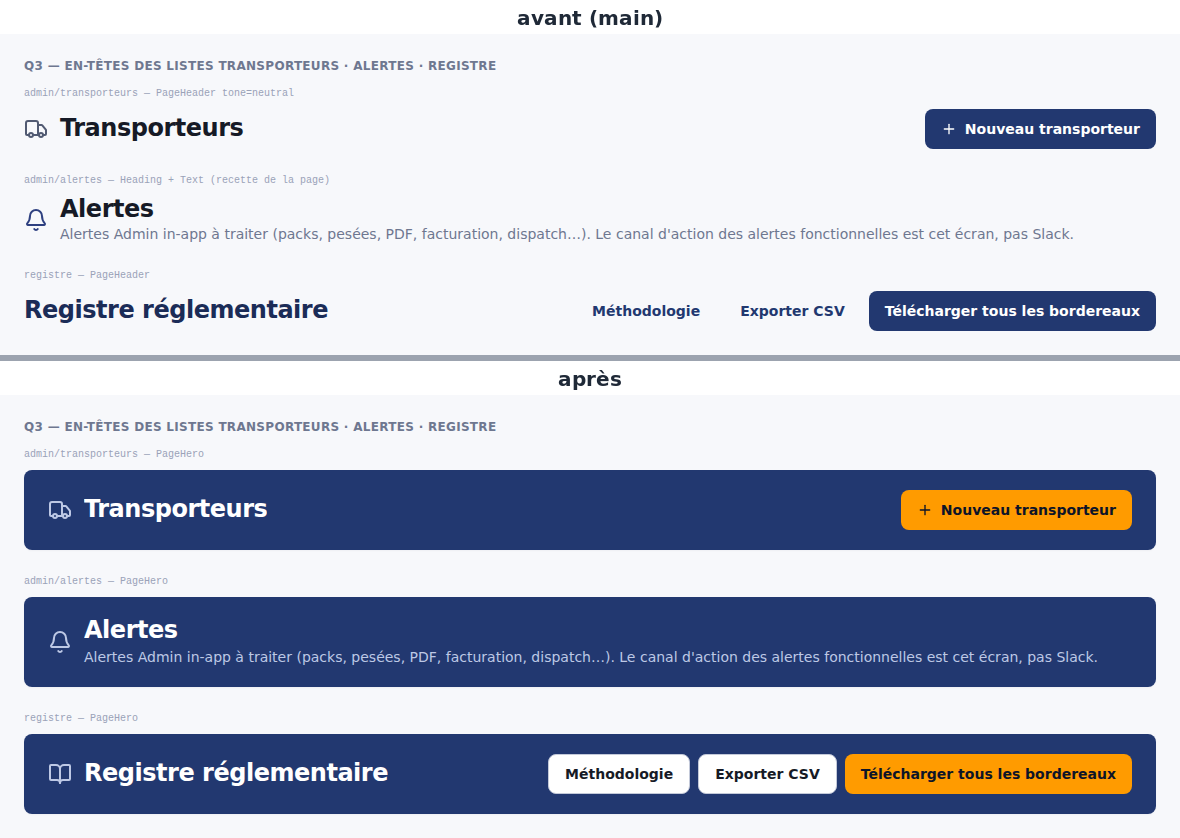
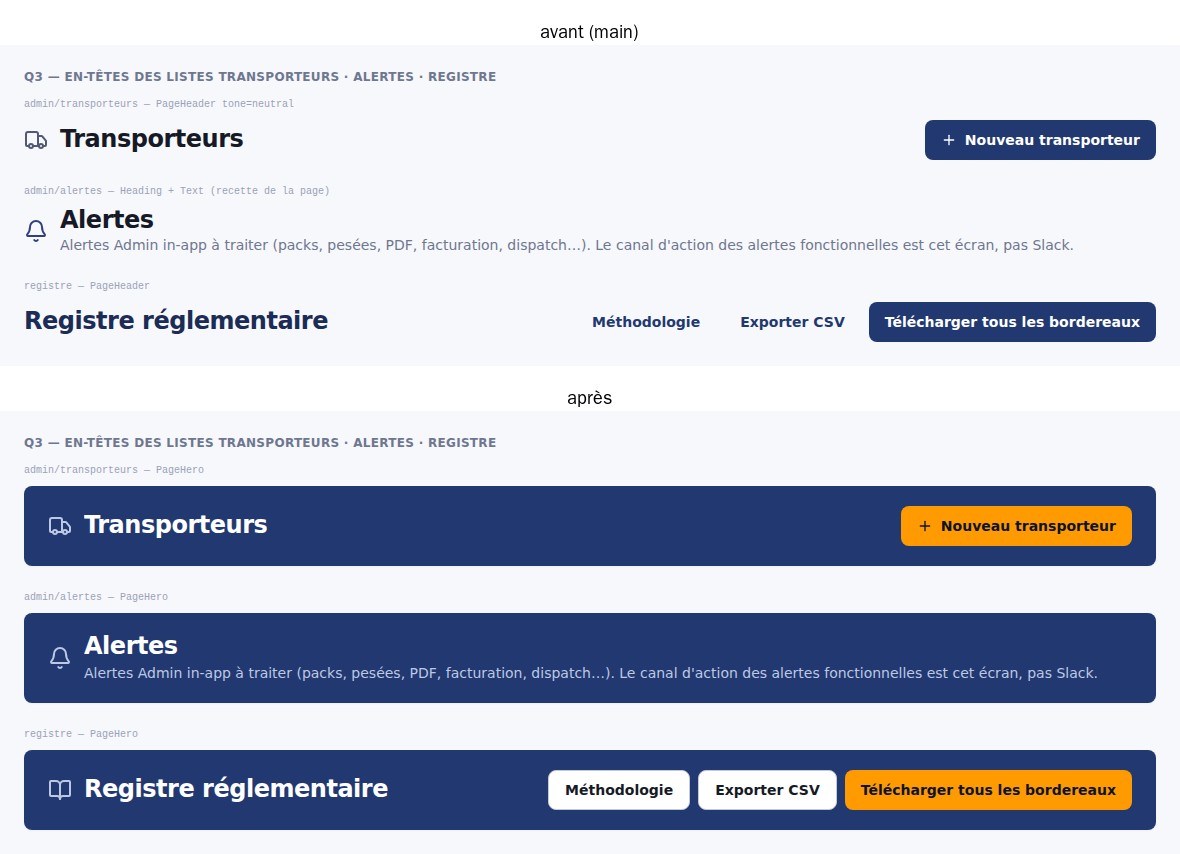
fix(ui): R-UI-6c — revues : fmtMasse 0-1 décimale (« 10 t »), unité CO₂e insécable partout, icône du bandeau non écrasée, gate ! et /, commentaires Q3/Q6
Claude-Session: https://claude.ai/code/session_01A11qLhSi262qxT36rfTiHs

diff --git a/packages/plateforme/src/lib/format.ts b/packages/plateforme/src/lib/format.ts
@@ -14,10 +14,13 @@
 /** Seuil de bascule kg → t des masses affichées (CDC §11 : à partir de 10 000 kg). */
 export const SEUIL_TONNES_KG = 10_000;
 
-/** Unité CO₂ en kg (Q6 : « kg CO₂e », espace insécable : ne se coupe jamais). */
-export const UNITE_KG_CO2E = `kg${'\u00a0'}CO₂e`;
-
 const NBSP = '\u00a0';
+
+/** Unité CO₂ (Q6 : « kg CO₂e » / « t CO₂e », espace insécable : ne se coupe jamais). */
+export function uniteCo2(unite: 'kg' | 't'): string {
+  return `${unite}${NBSP}CO₂e`;
+}
+export const UNITE_KG_CO2E = uniteCo2('kg');
 
 function nombre(n: number, d: number): string {
   return new Intl.NumberFormat('fr-FR', {
@@ -46,7 +49,7 @@ export function fmtPct(n: number, d = 1): string {
   return `${nombre(n, d)}${NBSP}%`;
 }
 
-/** Masse en kilogrammes, sans bascule en tonnes (arbitrage Q5 à venir) : « 840 kg ». */
+/** Masse en kilogrammes, sans bascule en tonnes (voir `fmtMasse` pour la bascule) : « 840 kg ». */
 export function fmtKg(n: number, d = 0): string {
   return `${nombre(n, d)}${NBSP}kg`;
 }
@@ -72,4 +75,20 @@ export function fmtMontant(n: number, devise: string): string {
 /** Convives : « 4 300 pax ». */
 export function fmtPax(n: number): string {
   return `${fmtInt(n)}${NBSP}pax`;
+}
+
+/**
+ * Masse avec bascule kg → t à `SEUIL_TONNES_KG` (CDC §11) : { value, unit }.
+ * Tonnes à 0-1 décimale (scénario 11-12 : 10 000 kg → « 10 t ») ;
+ * ex. 48 600 → { '48,6', 't' } ; 840 → { '840', 'kg' }.
+ */
+export function fmtMasse(kg: number): { value: string; unit: 't' | 'kg' } {
+  if (kg >= SEUIL_TONNES_KG) {
+    const t = new Intl.NumberFormat('fr-FR', {
+      minimumFractionDigits: 0,
+      maximumFractionDigits: 1,
+    }).format(kg / 1000);
+    return { value: t, unit: 't' };
+  }
+  return { value: fmtInt(kg), unit: 'kg' };
 }

diff --git a/packages/plateforme/src/app/(admin)/admin/dashboard-client/DashboardClientView.tsx b/packages/plateforme/src/app/(admin)/admin/dashboard-client/DashboardClientView.tsx
@@ -56,7 +56,7 @@ import { PageHeader } from '@/components/ui/page-header';
 import { Text } from '@/components/ui/text';
 import { LoadingState } from '@/components/ui/loading-state';
 import { AlertBar } from '@/components/ui/alert-bar';
-import { fmtPct } from '@/lib/format';
+import { fmtPct, uniteCo2 } from '@/lib/format';
 import { ROUTES } from '@/lib/routes';
 
 /** ISO `YYYY-MM-DD` → `DD/MM/YYYY` (affichage FR de la période analysée). */
@@ -519,7 +519,7 @@ export function DashboardClientView() {
             <StatCard
               label="CO₂ évité"
               value={co2Masse.value}
-              unit={`${co2Masse.unit} CO₂e`}
+              unit={uniteCo2(co2Masse.unit)}
               dotColor={KPI_DOT.green}
               variationPct={variationPct(co2.eviteKg, co2PrevKg)}
               sparkPoints={sparkFromSeries(zdSeries, (p) => p.co2_evite_kg)}
@@ -676,7 +676,7 @@ export function DashboardClientView() {
             <StatCard
               label="CO₂ évité"
               value={co2Masse.value}
-              unit={`${co2Masse.unit} CO₂e`}
+              unit={uniteCo2(co2Masse.unit)}
               dotColor={KPI_DOT.green}
               variationPct={variationPct(co2.eviteKg, co2PrevKg)}
               sparkPoints={sparkFromSeries(agSeries, (p) => p.co2_evite_kg)}

diff --git a/packages/plateforme/src/app/(traiteur)/traiteur/traiteur-dashboard-client.tsx b/packages/plateforme/src/app/(traiteur)/traiteur/traiteur-dashboard-client.tsx
@@ -58,7 +58,7 @@ import type { TraiteurDashboardPayload } from '@/lib/dashboards/loaders';
 import { KPI_DOT } from '@/components/dashboards/charts/cockpit/palette';
 import { PageHeader } from '@/components/ui/page-header';
 import { Text } from '@/components/ui/text';
-import { fmtPct } from '@/lib/format';
+import { fmtPct, uniteCo2 } from '@/lib/format';
 import { ROUTES } from '@/lib/routes';
 
 function masseStr(kg: number): string {
@@ -401,7 +401,7 @@ export function TraiteurDashboardClient({
             <StatCard
               label="CO₂ évité"
               value={co2Masse.value}
-              unit={`${co2Masse.unit} CO₂e`}
+              unit={uniteCo2(co2Masse.unit)}
               dotColor={KPI_DOT.green}
               variationPct={variationPct(co2.eviteKg, co2Prev.eviteKg)}
               sparkPoints={sparkFromRows(rows, (r) => r.co2_evite_kg)}
@@ -536,7 +536,7 @@ export function TraiteurDashboardClient({
             <StatCard
               label="CO₂ évité"
               value={co2Masse.value}
-              unit={`${co2Masse.unit} CO₂e`}
+              unit={uniteCo2(co2Masse.unit)}
               dotColor={KPI_DOT.green}
               variationPct={variationPct(co2.eviteKg, co2Prev.eviteKg)}
               sparkPoints={sparkFromRows(rows, (r) => r.co2_evite_kg)}

diff --git a/packages/plateforme/src/components/dashboards/charts/cockpit/Co2MethodePanelAg.tsx b/packages/plateforme/src/components/dashboards/charts/cockpit/Co2MethodePanelAg.tsx
@@ -1,6 +1,7 @@
 'use client';
 
 import * as React from 'react';
+import { uniteCo2 } from '@/lib/format';
 import { fmtDec, fmtInt, fmtMasse } from './fmt';
 import { Text } from '@/components/ui/text';
 
@@ -9,7 +10,7 @@ import { Text } from '@/components/ui/text';
 // UNIQUE par repas (facteur FAO figé × repas donnés), sans induit / net / énergie
 // ni tableau de facteurs par matière (ceux-ci sont ZD, méthode ABC ADEME). Purement
 // présentationnel : le facteur par repas est lu côté serveur (service_role) dans
-// `plateforme.parametres_facteurs_co2_ag` (repli 2,5 kgCO₂e/repas, FAO 2023).
+// `plateforme.parametres_facteurs_co2_ag` (repli 2,5 kg CO₂e/repas, FAO 2023).
 interface Co2MethodePanelAgProps {
   /** Facteur d'émission évité par repas (kg CO₂e/repas), figé à la clôture. */
   facteurParRepas: number;
@@ -75,7 +76,7 @@ export function Co2MethodePanelAg({
           {fmtInt(repasDonnes)} repas × {fmtDec(facteurParRepas, 2)}{' '}
           kg&nbsp;CO₂e/repas ={' '}
           <b className="text-savr-neutral-800">
-            {evite.value} {evite.unit} CO₂e
+            {evite.value}&nbsp;{uniteCo2(evite.unit)}
           </b>
           .
         </Formule>

diff --git a/packages/plateforme/src/components/dashboards/charts/cockpit/fmt.ts b/packages/plateforme/src/components/dashboards/charts/cockpit/fmt.ts
@@ -3,7 +3,7 @@
  * en tabular-nums côté rendu. Source unique pour barres / donut / jauges / KPI.
  */
 
-import { fmtDec, fmtInt, SEUIL_TONNES_KG } from '@/lib/format';
+import { fmtDec, fmtInt, fmtMasse } from '@/lib/format';
 
 // Entier / décimal fr : source unique `lib/format` (R-UI-0), ré-exportés ici
 // pour les graphes Cockpit.
@@ -12,14 +12,8 @@ export { fmtDec, fmtInt };
 // Les ex-homonymes sans unité `fmtEuro` / `fmtPct` (0 usage) ont été retirés en
 // R-UI-6b : la source unique est `lib/format` (`fmtEuro` avec €, `fmtPct` avec %).
 
-/**
- * Masse : rend une valeur en kg → { value, unit }, bascule kg→t au-delà de
- * `SEUIL_TONNES_KG` = 10 000 kg (règle §11). Ex. 48 600 → { '48,6', 't' } ; 840 → { '840', 'kg' }.
- */
-export function fmtMasse(kg: number): { value: string; unit: 't' | 'kg' } {
-  if (kg >= SEUIL_TONNES_KG) return { value: fmtDec(kg / 1000, 1), unit: 't' };
-  return { value: fmtInt(kg), unit: 'kg' };
-}
+// Masse avec bascule kg → t : source unique `lib/format` (Q5, R-UI-6c).
+export { fmtMasse };
 
 /** Initiales d'un nom : « Pavillon Gabriel » → « PG » (2 lettres max). */
 export function initiales(nom: string): string {

diff --git a/packages/plateforme/src/app/(client-organisateur)/organisateur/page.tsx b/packages/plateforme/src/app/(client-organisateur)/organisateur/page.tsx
@@ -17,7 +17,7 @@ import { Card, CardContent, CardHeader, CardTitle } from '@/components/ui/card';
 import { jourParis } from '@savr/shared/src/temps/index.js';
 import { KPI_DOT } from '@/components/dashboards/charts/cockpit/palette';
 import { PageHeader } from '@/components/ui/page-header';
-import { fmtInt, fmtDec, SEUIL_TONNES_KG } from '@/lib/format';
+import { fmtInt, fmtDec, fmtMasse, uniteCo2 } from '@/lib/format';
 import { ROUTES } from '@/lib/routes';
 
 // §11 §7 — Dashboard client_organisateur : impact RSE, lecture seule.
@@ -41,15 +41,13 @@ const sum = (rows: KpiRow[], f: (r: KpiRow) => number | null | undefined) =>
 
 // Bascule kg → t à `SEUIL_TONNES_KG` (10 000 kg, CDC §11 ; Q5 tranché 2026-10-06).
 function Co2Display({ kg }: { kg: number }) {
-  if (kg >= SEUIL_TONNES_KG)
-    return (
-      <>
-        {(kg / 1000).toLocaleString('fr-FR', { maximumFractionDigits: 1 })} t
-        CO₂e
-      </>
-    );
+  const m = fmtMasse(kg);
   return (
-    <>{kg.toLocaleString('fr-FR', { maximumFractionDigits: 0 })} kg CO₂e</>
+    <>
+      {m.value}
+      {'\u00a0'}
+      {uniteCo2(m.unit)}
+    </>
   );
 }
 

diff --git a/packages/plateforme/src/components/dashboards/masse-co2.r-ui-6c.test.tsx b/packages/plateforme/src/components/dashboards/masse-co2.r-ui-6c.test.tsx
@@ -4,7 +4,7 @@
  */
 import { describe, expect, it } from 'vitest';
 import { render } from '@testing-library/react';
-import { SEUIL_TONNES_KG, UNITE_KG_CO2E } from '@/lib/format';
+import { SEUIL_TONNES_KG, UNITE_KG_CO2E, uniteCo2 } from '@/lib/format';
 import { TonnageDisplay } from './TonnageDisplay';
 import { fmtMasse } from './charts/cockpit/fmt';
 
@@ -24,12 +24,15 @@ describe('R-UI-6c — Q5 seuil kg → t', () => {
 
   it('fmtMasse (cockpit) bascule au même seuil', () => {
     expect(fmtMasse(9999).unit).toBe('kg');
-    expect(fmtMasse(10_000).unit).toBe('t');
+    // Scénario 11-12 : 10 000 kg → « 10 t » (0-1 décimale, comme TonnageDisplay).
+    expect(fmtMasse(10_000)).toEqual({ value: '10', unit: 't' });
+    expect(fmtMasse(48_600)).toEqual({ value: '48,6', unit: 't' });
   });
 });
 
 describe('R-UI-6c — Q6 graphie CO₂', () => {
   it('« kg CO₂e » avec espace insécable', () => {
-    expect(UNITE_KG_CO2E).toBe('kg CO₂e');
+    expect(UNITE_KG_CO2E).toBe('kg\u00a0CO₂e');
+    expect(uniteCo2('t')).toBe('t\u00a0CO₂e');
   });
 });

diff --git a/packages/plateforme/src/components/collecte/collectes-traiteur-table.tsx b/packages/plateforme/src/components/collecte/collectes-traiteur-table.tsx
@@ -19,7 +19,7 @@ import { libelleDateHeure } from '@/lib/format-date-collecte';
 import { LIBELLE_RAPPORT_RESERVE } from '@/lib/collectes/fiche-client-types';
 import { CelluleVide } from '@/components/ui/data-grid';
 import { Text } from '@/components/ui/text';
-import { fmtKgAuto, fmtPct, fmtInt, fmtPax } from '@/lib/format';
+import { fmtKgAuto, fmtPct, fmtInt, fmtPax, UNITE_KG_CO2E } from '@/lib/format';
 
 // Ligne de la Data Table Collectes traiteur (BL-P2-14, refonte liste 2026-07-05,
 // revue écran 2026-07-15, passage en Data Table 2026-09-28 — décisions Val).
@@ -149,7 +149,9 @@ export function ResultatsCollecte({
       {c.co2_evite_kg != null && c.co2_evite_kg > 0 && (
         <span className="inline-flex items-center gap-1.5">
           <Leaf className="h-3.5 w-3.5 text-savr-neutral-400" />
-          {fmtInt(c.co2_evite_kg)} kg CO₂e
+          {fmtInt(c.co2_evite_kg)}
+          {'\u00a0'}
+          {UNITE_KG_CO2E}
         </span>
       )}
       {/* Rapport réservé au donneur d'ordre : action retirée (liste, §10 §7)

diff --git a/packages/plateforme/src/components/ui/heading.tsx b/packages/plateforme/src/components/ui/heading.tsx
@@ -4,8 +4,8 @@ import { cn } from '@/lib/utils';
 // Heading — titres h1/h2/h3 de l'app (R-UI-6b, I1/I2). Un seul endroit porte
 // les recettes de taille / graisse / couleur relevées dans le code ; les
 // valeurs par défaut sont les recettes majoritaires de chaque niveau, les
-// autres recettes se déclarent par props (iso-rendu : rien n'est redessiné,
-// l'arbitrage Q3 « PageHero navy partout ? » reste ouvert). Le letter-spacing
+// autres recettes se déclarent par props (iso-rendu : rien n'est redessiné ;
+// Q3 tranché b le 2026-10-06 : titre de page = PageHero (listes) ou PageHeader). Le letter-spacing
 // serré des titres (-0.02em, levier #7) vient de la règle globale h1/h2/h3 de
 // globals.css.
 type HeadingLevel = 1 | 2 | 3;

diff --git a/packages/plateforme/src/components/ui/page-header.tsx b/packages/plateforme/src/components/ui/page-header.tsx
@@ -5,8 +5,8 @@ import { Text } from './text';
 
 // PageHeader — en-tête d'écran sobre (R-UI-6b, I1) : titre h1 + description
 // optionnelle, icône à gauche, actions à droite. Alternative au bandeau navy
-// `PageHero` pour les écrans non-liste (dashboards, profil, paramètres) ; le
-// choix « PageHero partout ou PageHeader » = arbitrage Q3, ouvert : ce
+// `PageHero` pour les écrans non-liste (dashboards, profil, paramètres) ; Q3
+// tranché b (2026-10-06) : PageHero réservé aux listes, PageHeader ailleurs. Ce
 // composant reproduit les recettes actuelles (`text-2xl font-bold
 // text-savr-primary-800` ×23, `…neutral-900` ×8) sans en changer le rendu.
 interface PageHeaderProps {

diff --git a/packages/plateforme/src/components/ui/badges.r-ui-2.test.tsx b/packages/plateforme/src/components/ui/badges.r-ui-2.test.tsx
@@ -109,6 +109,18 @@ describe('R-UI-2 — Badge : size="sm" (C14) et variant="count" (C15)', () => {
     expect(badge.className).toContain('py-0.5');
   });
 
+  it('size="sm" rend exactement comme la taille par défaut (alias Q9 b)', () => {
+    render(
+      <>
+        <Badge size="sm">A</Badge>
+        <Badge>B</Badge>
+      </>,
+    );
+    const classes = (t: string) =>
+      screen.getByText(t).className.split(/\s+/).sort().join(' ');
+    expect(classes('A')).toBe(classes('B'));
+  });
+
   it('taille par défaut inchangée (text-xs)', () => {
     render(<Badge>Normal</Badge>);
     expect(screen.getByText('Normal').className).toContain('text-xs');

diff --git a/scripts/check-ds-classes.ts b/scripts/check-ds-classes.ts
@@ -60,8 +60,10 @@ const UTILS =
 // (variante `hover:`) ou `${`/`}` dans un template literal.
 // (Un hex dans une valeur arbitraire — `bg-[#223870]`, `shadow-[0_0_0_1px_#000]`
 // — est attrapé par la catégorie `hex`, dont les délimiteurs incluent `[` et `_`.)
-const AVANT = '(?<=["\'`\\s:}]|^)';
-const APRES = '(?=["\'`\\s$]|$)';
+// `!` (important Tailwind, ex. `!rounded-full`) avant ; `/` (opacité ou
+// interlignage, ex. `text-[11px]/4`) après (R-UI-6c, revue principale m7).
+const AVANT = '(?<=["\'`\\s:}!]|^)';
+const APRES = '(?=["\'`\\s$/]|$)';
 
 const CATEGORIES: { key: string; libelle: string; re: RegExp }[] = [
   {
